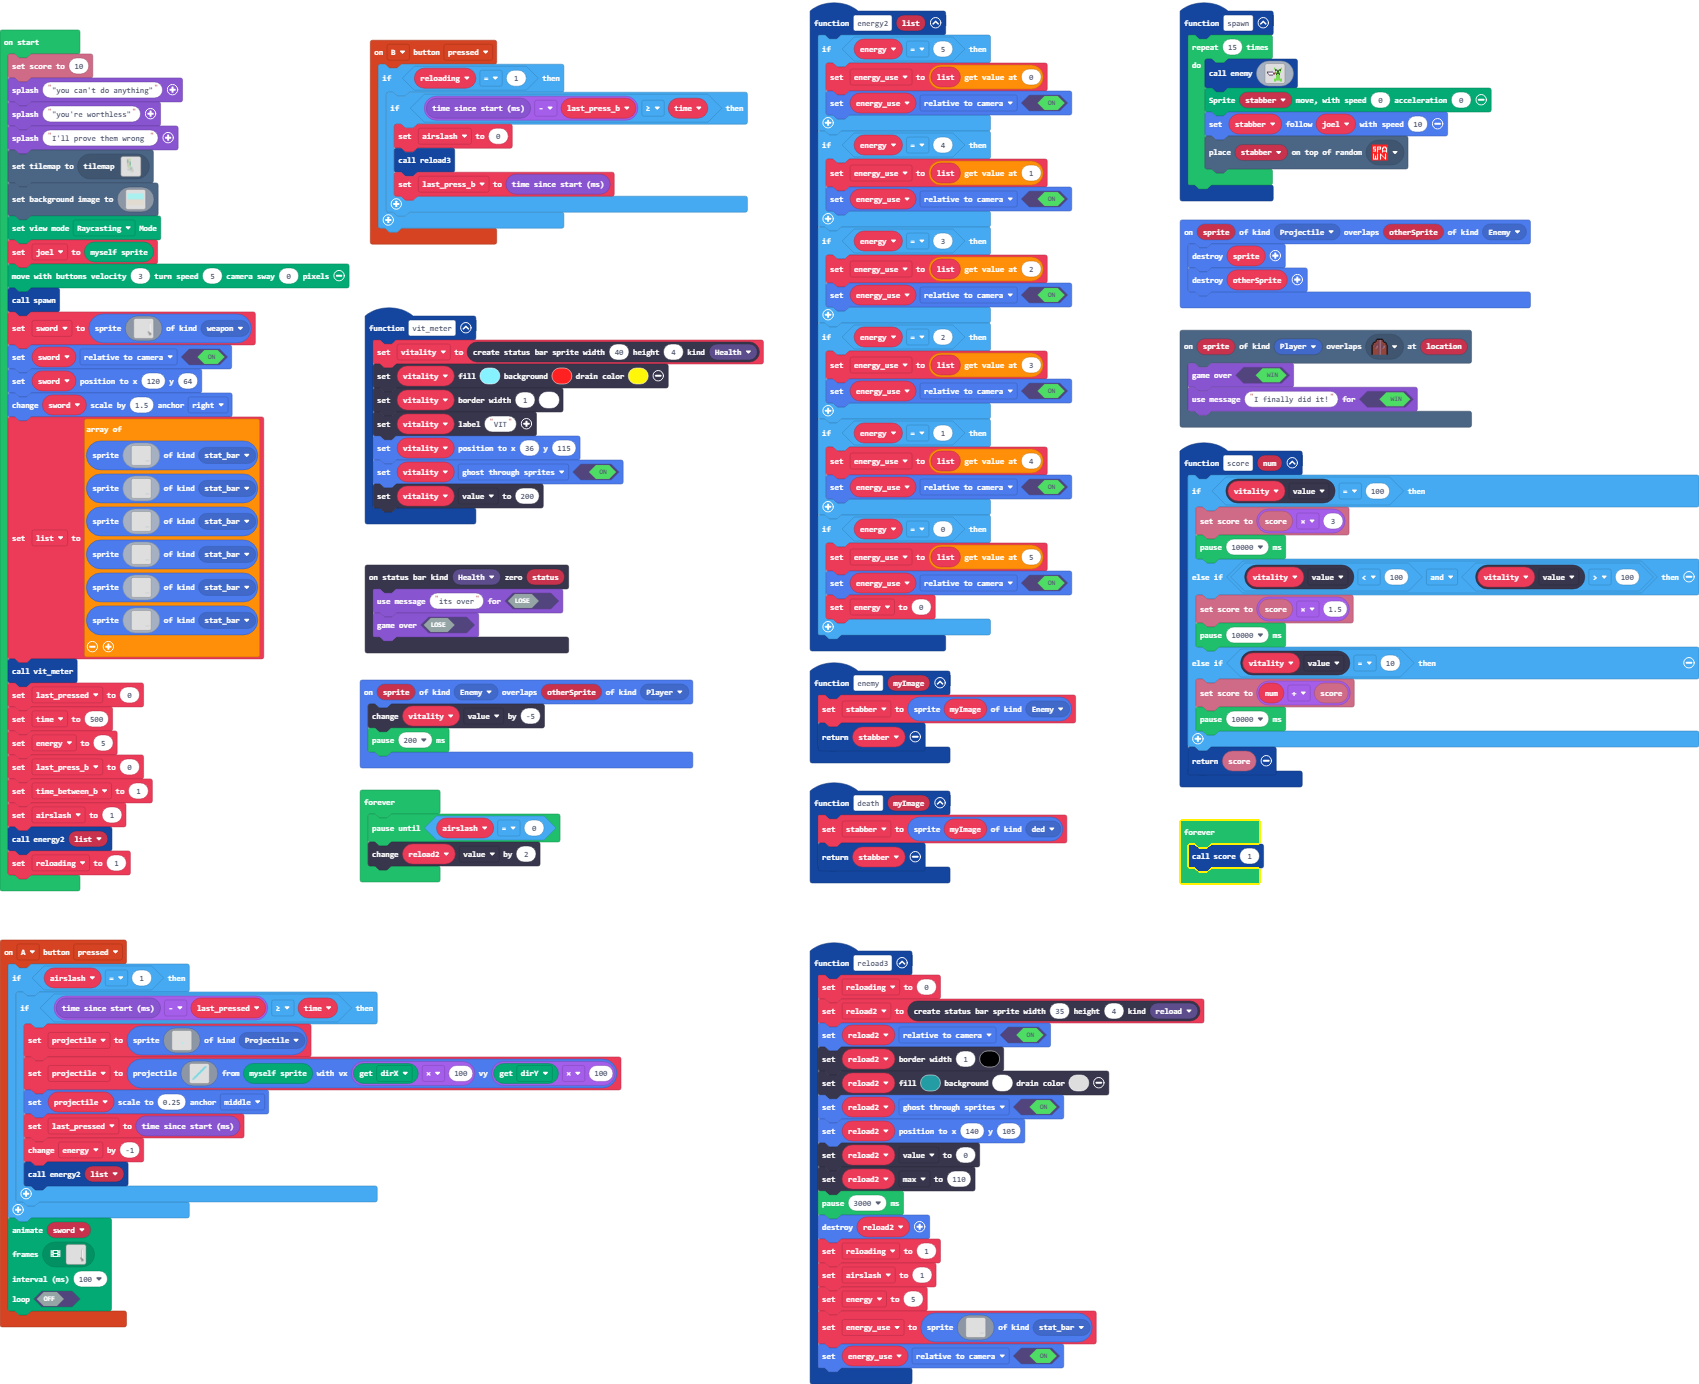
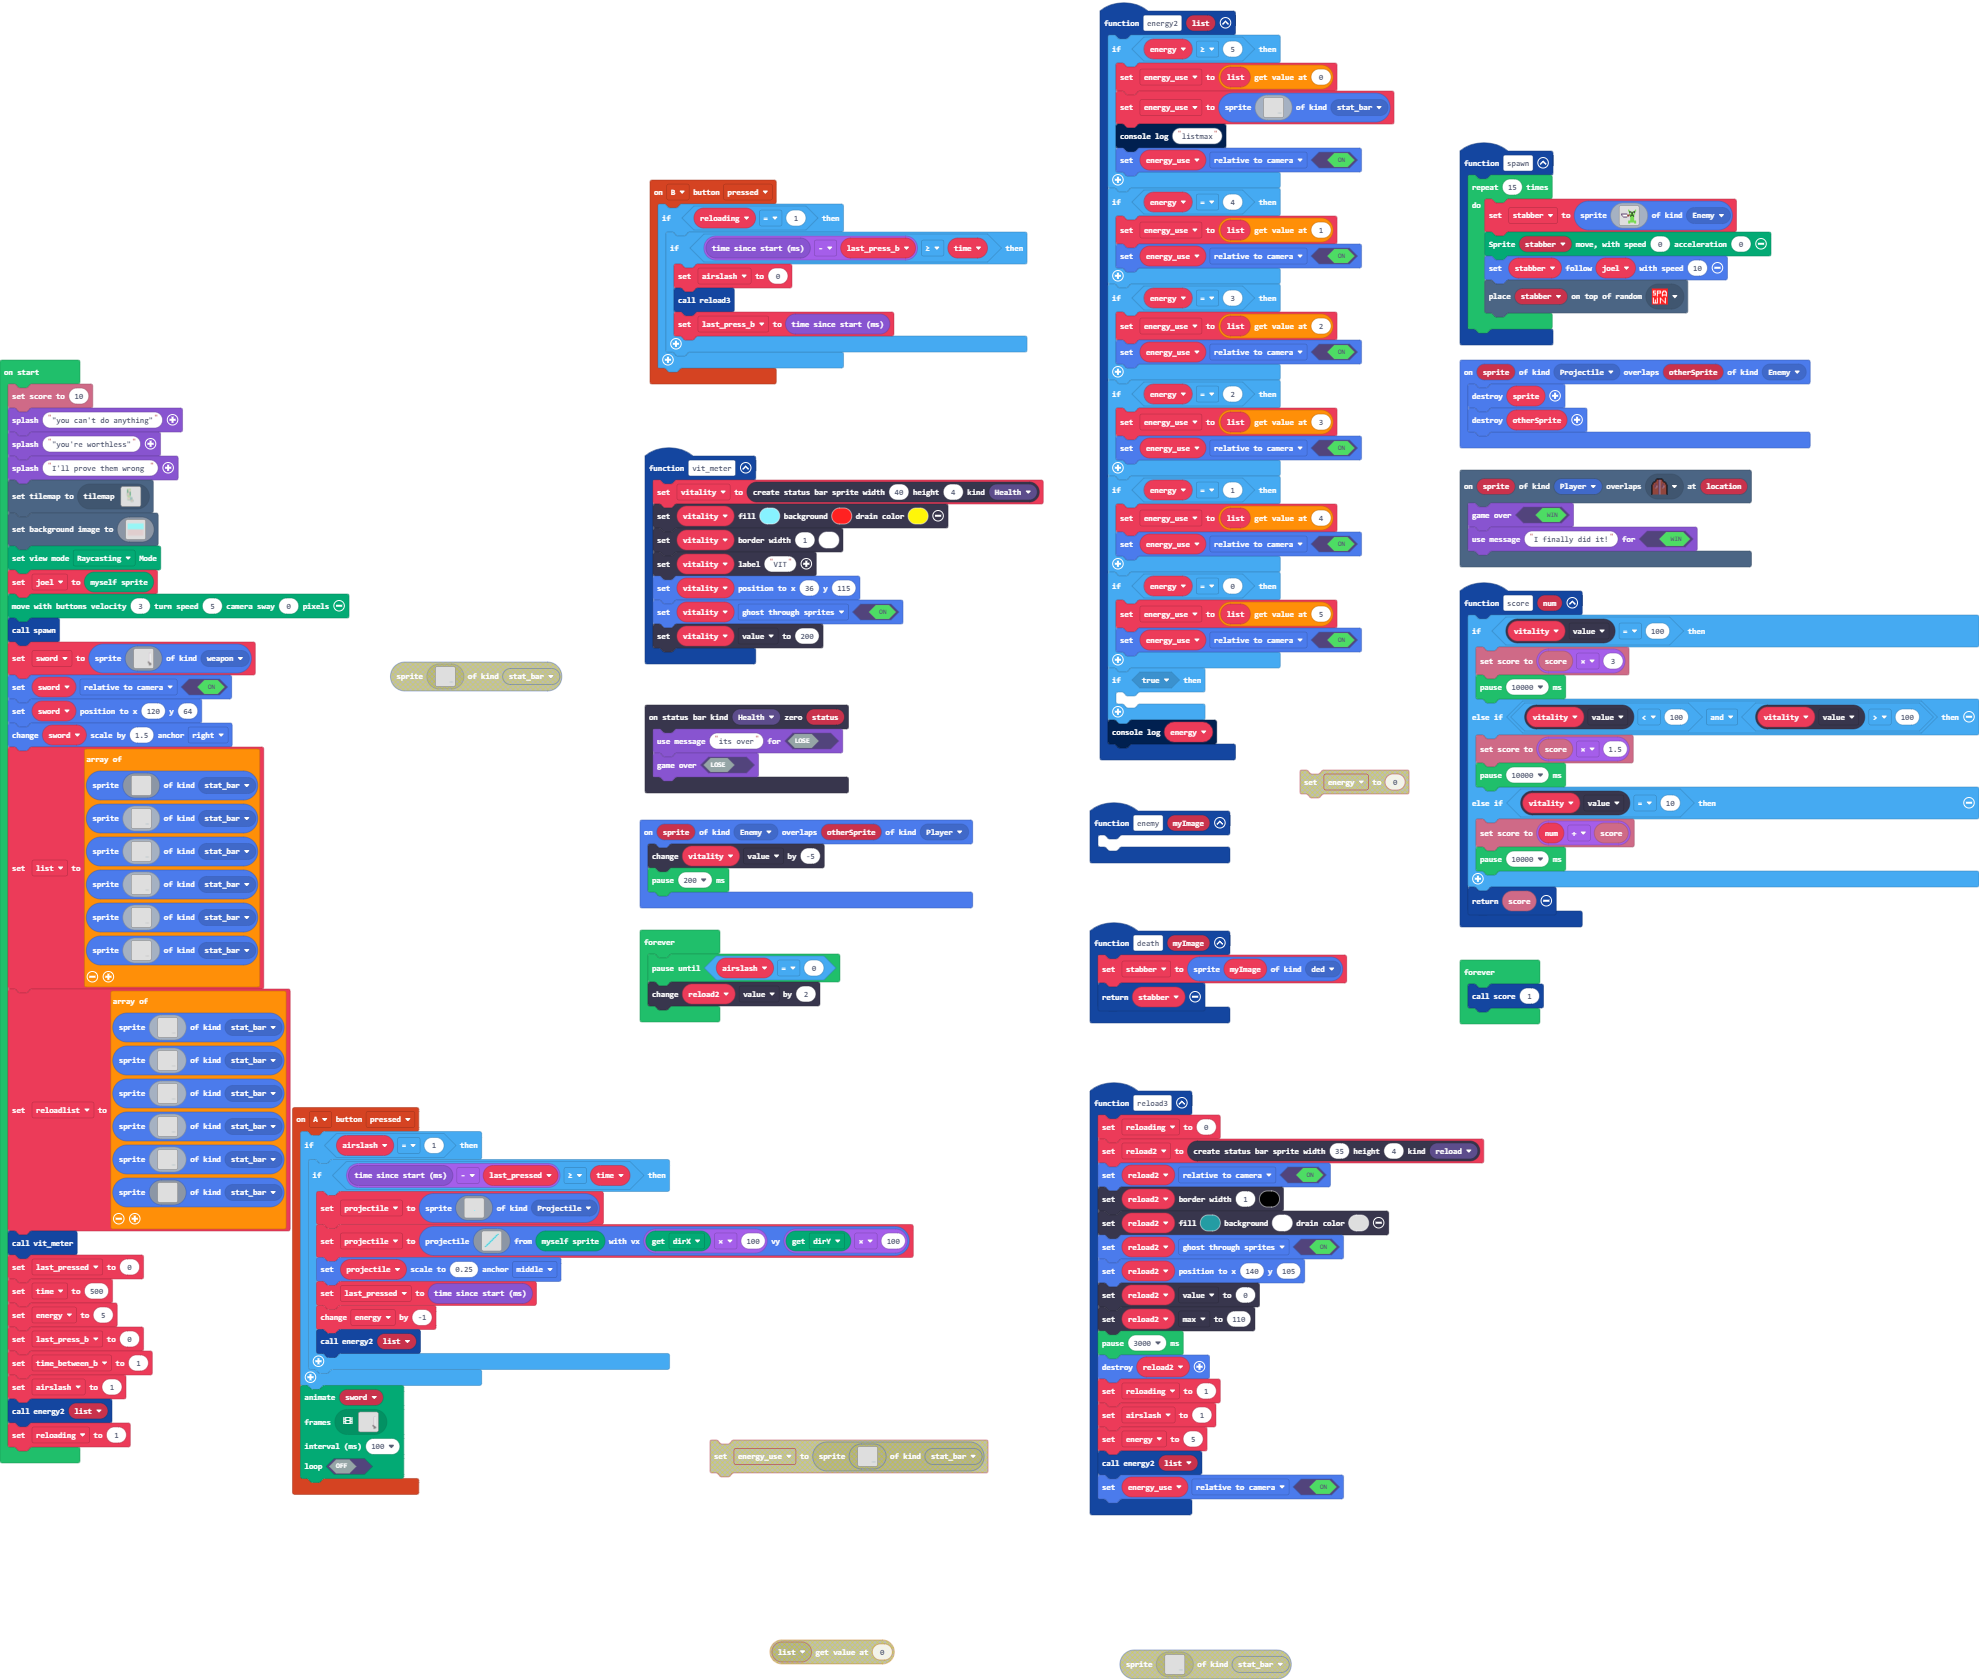
Update main.blocks, main.ts

diff --git a/main.ts b/main.ts
@@ -16,8 +16,10 @@ controller.B.onEvent(ControllerButtonEvent.Pressed, function () {
     }
 })
 function energy2 (list: Sprite[]) {
-    if (energy == 5) {
+    if (energy >= 5) {
         energy_use = list[0]
+        energy_use = sprites.create(assets.image`5energy_bar`, SpriteKind.stat_bar)
+        console.log("listmax")
         energy_use.setFlag(SpriteFlag.RelativeToCamera, true)
     }
     if (energy == 4) {
@@ -39,8 +41,11 @@ function energy2 (list: Sprite[]) {
     if (energy == 0) {
         energy_use = list[5]
         energy_use.setFlag(SpriteFlag.RelativeToCamera, true)
-        energy = 0
     }
+    if (true) {
+    	
+    }
+    console.log(energy)
 }
 controller.A.onEvent(ControllerButtonEvent.Pressed, function () {
     if (airslash == 1) {
@@ -75,7 +80,7 @@ function reload3 () {
     reloading = 1
     airslash = 1
     energy = 5
-    energy_use = sprites.create(assets.image`5energy_bar`, SpriteKind.stat_bar)
+    energy2(list)
     energy_use.setFlag(SpriteFlag.RelativeToCamera, true)
 }
 function death (myImage: Image) {
@@ -113,8 +118,7 @@ sprites.onOverlap(SpriteKind.Enemy, SpriteKind.Player, function (sprite, otherSp
     pause(200)
 })
 function enemy (myImage: Image) {
-    stabber = sprites.create(myImage, SpriteKind.Enemy)
-    return stabber
+	
 }
 scene.onOverlapTile(SpriteKind.Player, assets.tile`door`, function (sprite, location) {
     game.gameOver(true)
@@ -122,7 +126,7 @@ scene.onOverlapTile(SpriteKind.Player, assets.tile`door`, function (sprite, loca
 })
 function spawn () {
     for (let index = 0; index < 15; index++) {
-        enemy(assets.image`stabby`)
+        stabber = sprites.create(assets.image`stabby`, SpriteKind.Enemy)
         Render.move(stabber, 0, 0)
         stabber.follow(joel, 10)
         tiles.placeOnRandomTile(stabber, assets.tile`enemyspawn`)
@@ -161,12 +165,54 @@ sword.setFlag(SpriteFlag.RelativeToCamera, true)
 sword.setPosition(120, 64)
 sword.changeScale(1.5, ScaleAnchor.Right)
 list = [
-sprites.create(assets.image`5energy_bar`, SpriteKind.stat_bar),
+sprites.create(img`
+    . . . . . . . . . . . . . . . . 
+    . . . . . . . . . . . . . . . . 
+    . . . . . . . . . . . . . . . . 
+    . . . . . . . . . . . . . . . . 
+    . . . . . . . . . . . . . . . . 
+    . . . . . . . . . . . . . . . . 
+    . . . . . . . . . . . . . . . . 
+    . . . . . . . . . . . . . . . . 
+    . . . . . . . . . . . . . . . . 
+    . . . . . . . . . . . . . . . . 
+    . . . . . . . . . . . . . . . . 
+    . . . . . . . . . . . . . . . . 
+    . . . . . . . . . . . . . . . . 
+    . . . . . . . . . . . . . . . . 
+    . . . . . . . . . . . . . . . . 
+    . . . . . . . . . . . . . . . . 
+    `, SpriteKind.stat_bar),
 sprites.create(assets.image`4energy_bar`, SpriteKind.stat_bar),
 sprites.create(assets.image`3energy_bar`, SpriteKind.stat_bar),
 sprites.create(assets.image`2energy_bar`, SpriteKind.stat_bar),
 sprites.create(assets.image`1energy_bar`, SpriteKind.stat_bar),
 sprites.create(assets.image`0energy`, SpriteKind.stat_bar)
+]
+let reloadlist = [
+sprites.create(assets.image`0energy`, SpriteKind.stat_bar),
+sprites.create(assets.image`1energy_bar`, SpriteKind.stat_bar),
+sprites.create(assets.image`2energy_bar`, SpriteKind.stat_bar),
+sprites.create(assets.image`3energy_bar`, SpriteKind.stat_bar),
+sprites.create(assets.image`4energy_bar`, SpriteKind.stat_bar),
+sprites.create(img`
+    . . . . . . . . . . . . . . . . 
+    . . . . . . . . . . . . . . . . 
+    . . . . . . . . . . . . . . . . 
+    . . . . . . . . . . . . . . . . 
+    . . . . . . . . . . . . . . . . 
+    . . . . . . . . . . . . . . . . 
+    . . . . . . . . . . . . . . . . 
+    . . . . . . . . . . . . . . . . 
+    . . . . . . . . . . . . . . . . 
+    . . . . . . . . . . . . . . . . 
+    . . . . . . . . . . . . . . . . 
+    . . . . . . . . . . . . . . . . 
+    . . . . . . . . . . . . . . . . 
+    . . . . . . . . . . . . . . . . 
+    . . . . . . . . . . . . . . . . 
+    . . . . . . . . . . . . . . . . 
+    `, SpriteKind.stat_bar)
 ]
 vit_meter()
 last_pressed = 0
